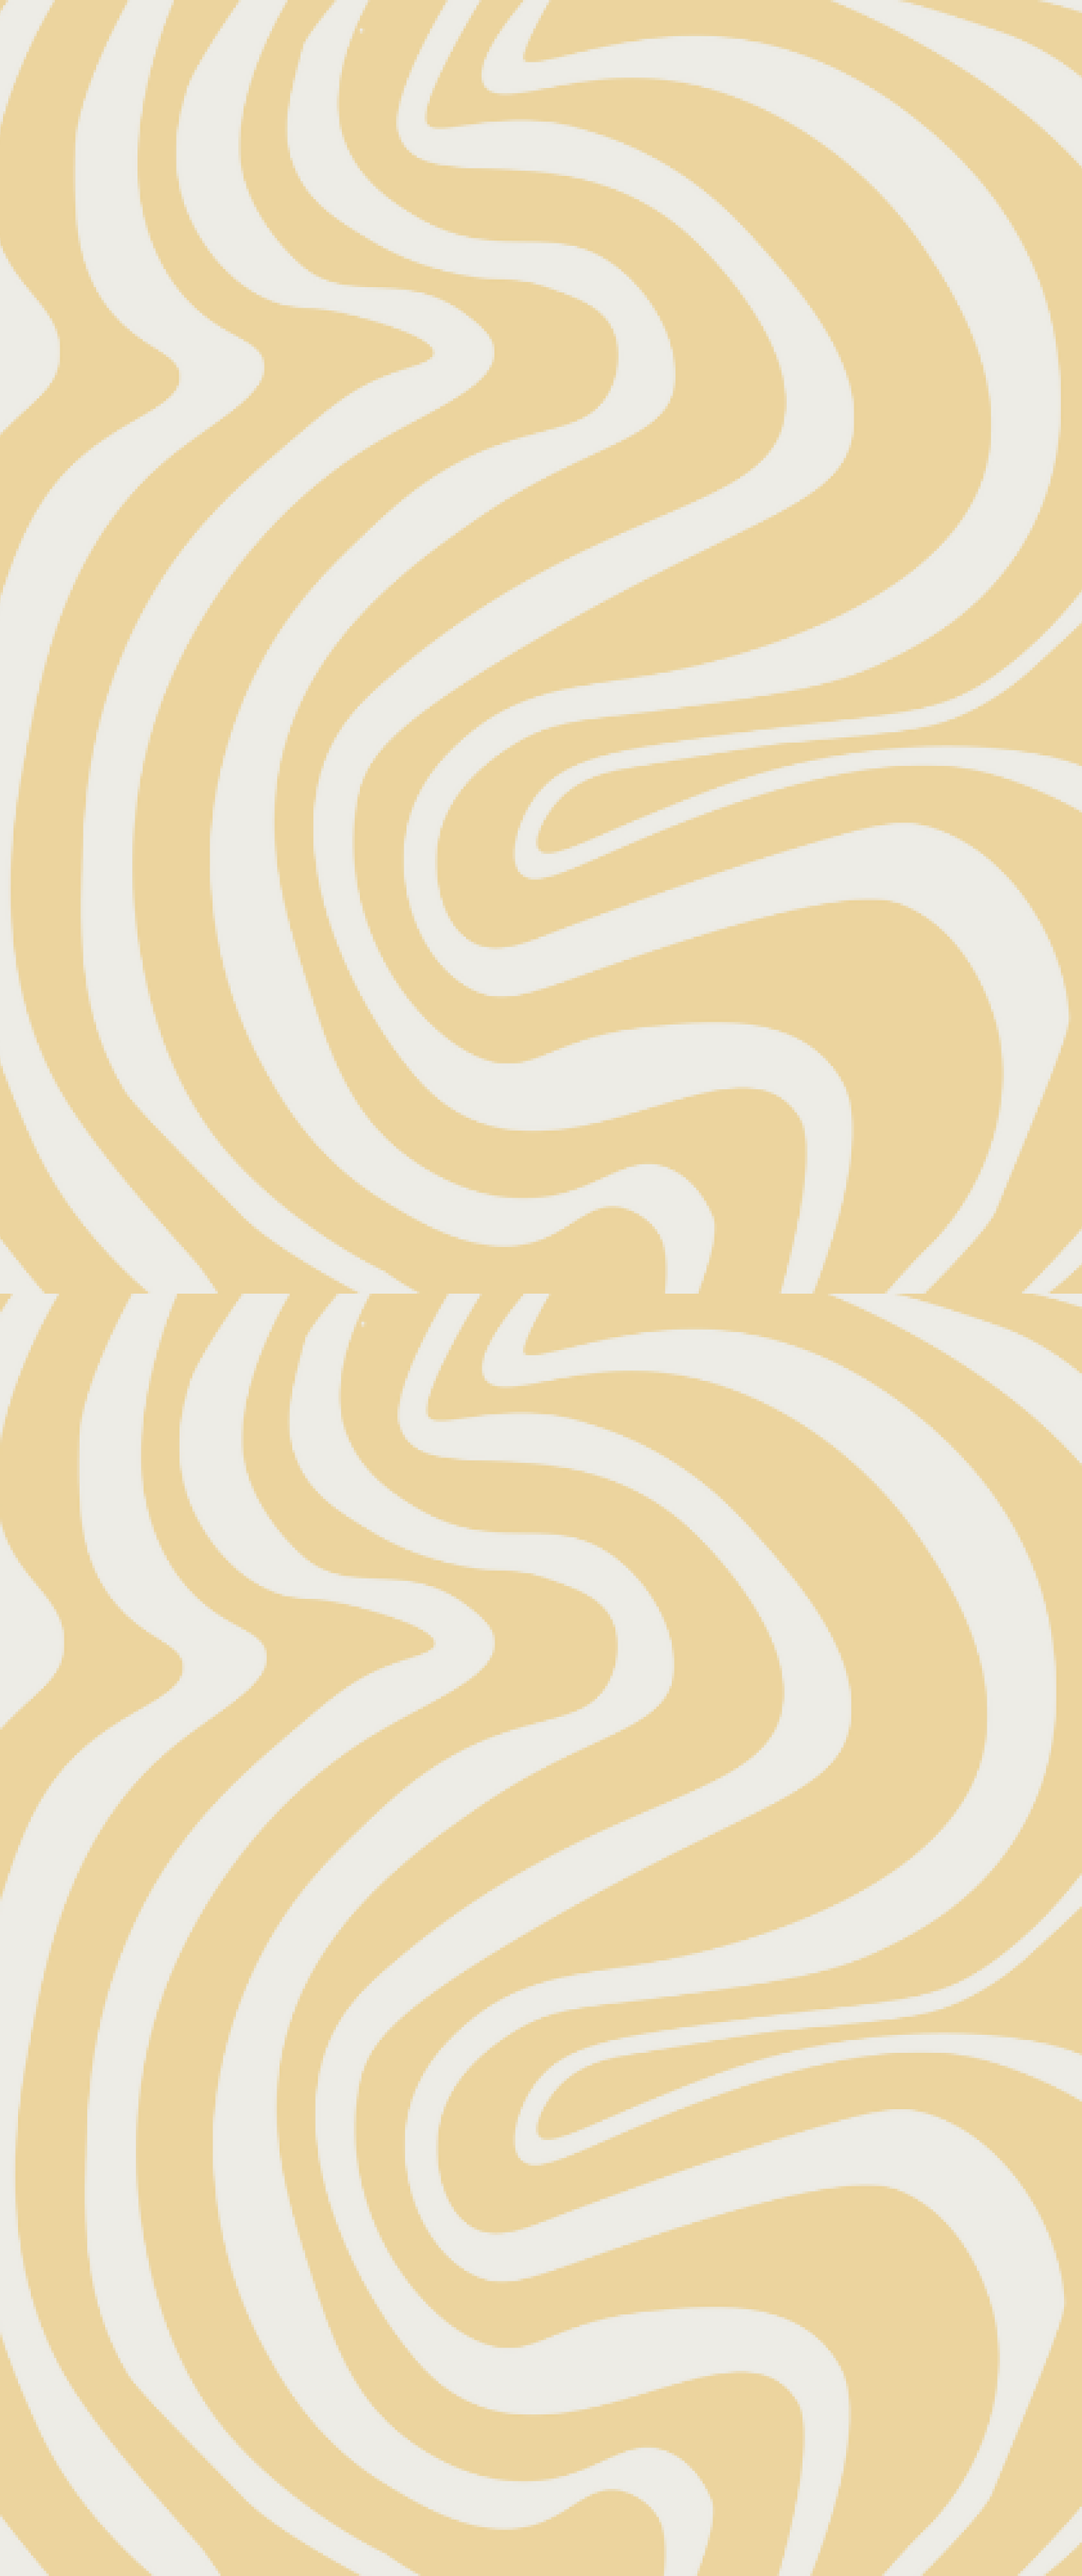
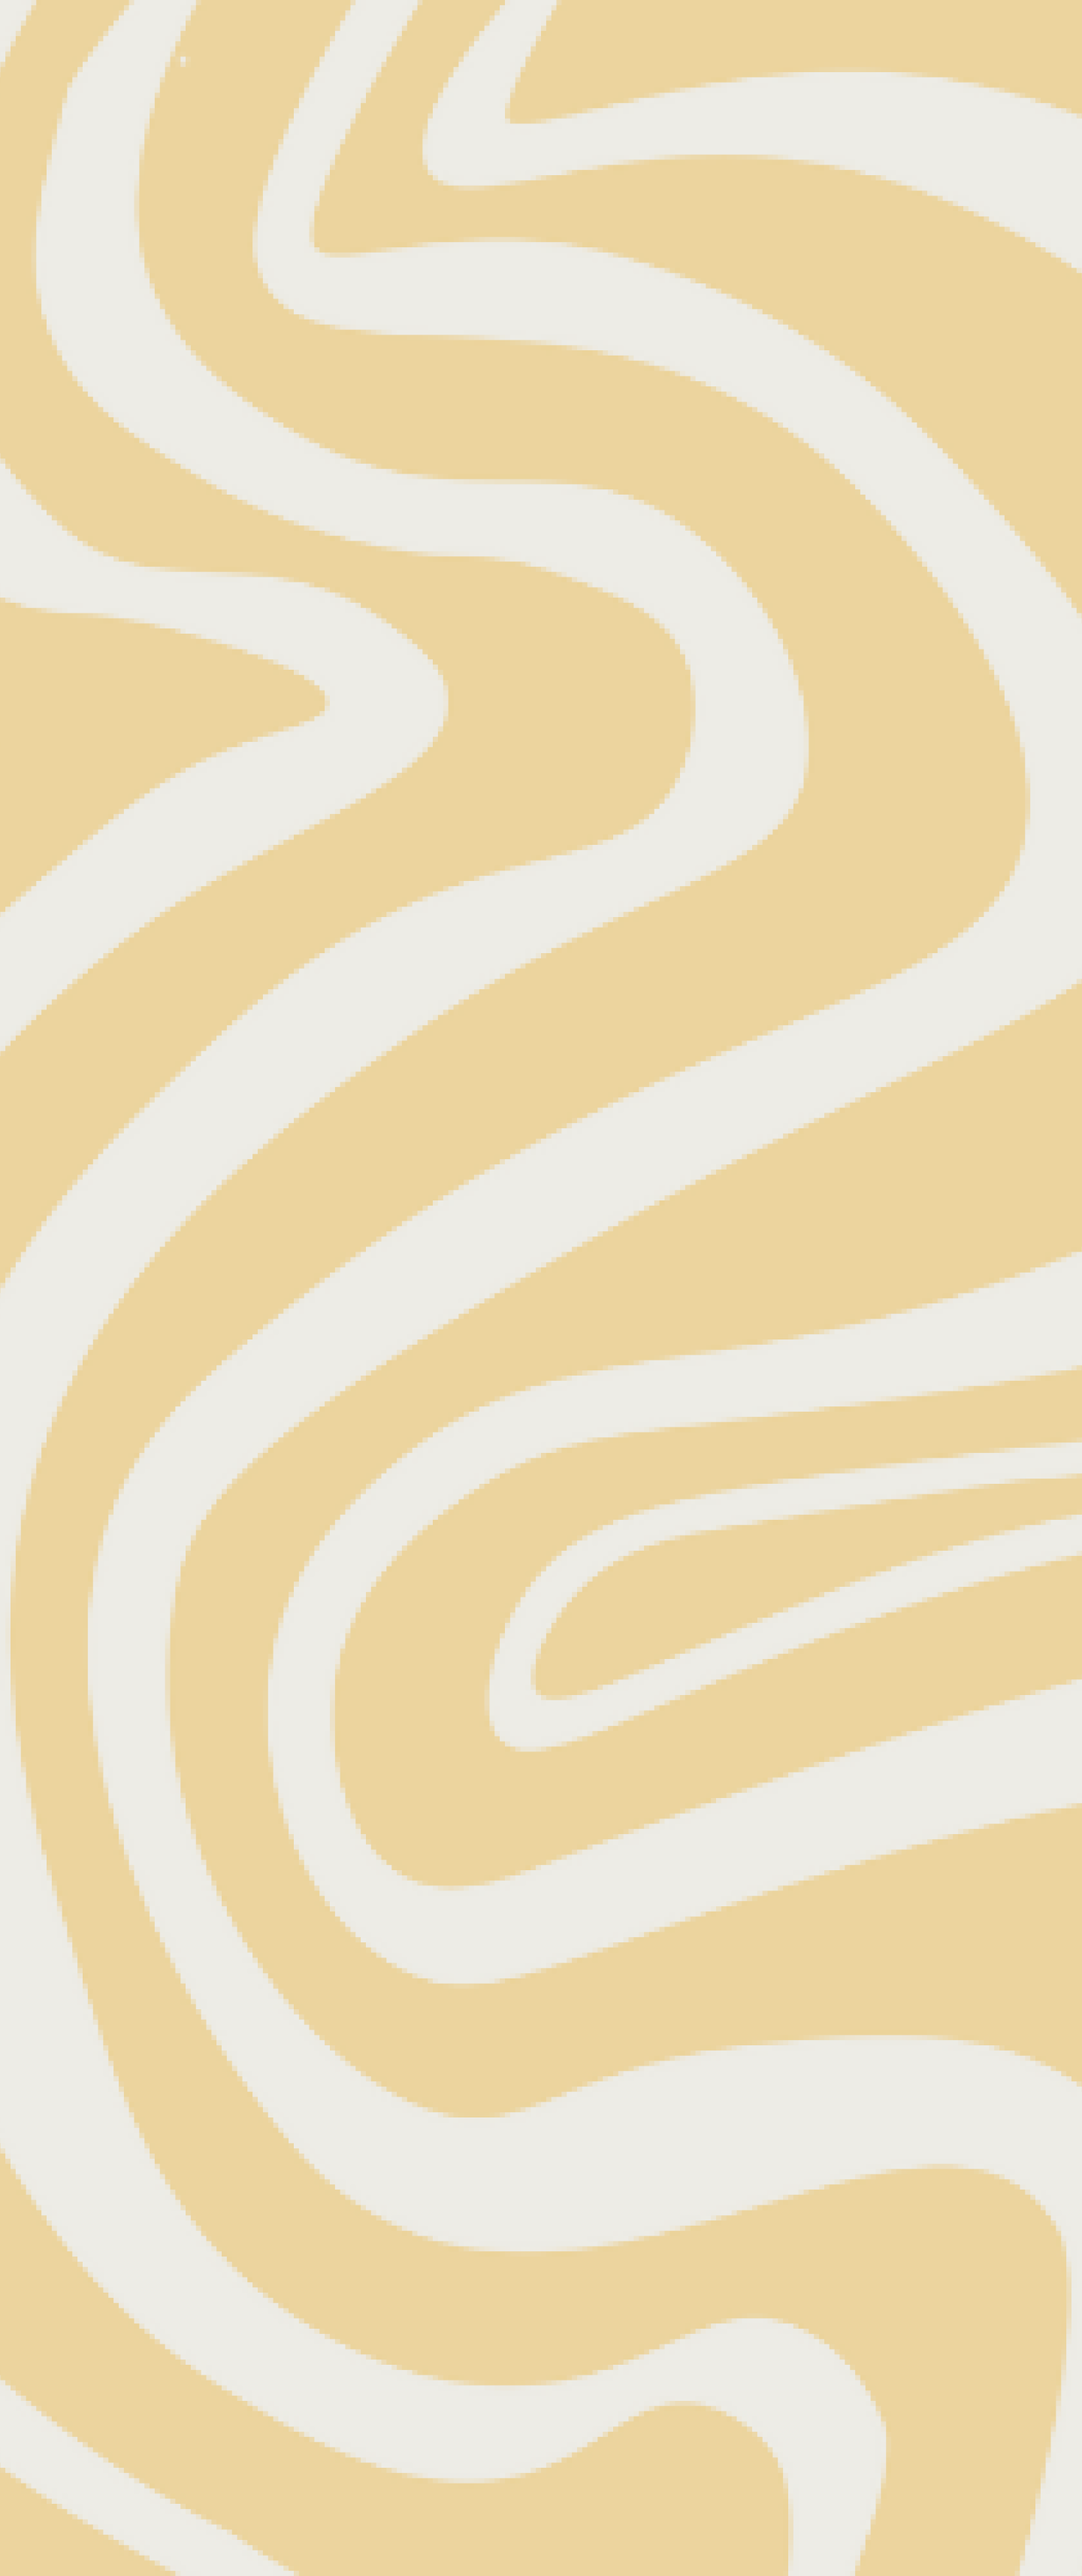
MINOR CHANGESSSS
lets go!

diff --git a/retro.html b/retro.html
@@ -29,7 +29,7 @@
 				body {
 					margin: 0;
 					padding: 0;
-					background-image: url('assets/vibes/final_retroBG2.png'); /* Replace with your desired background image */
+					background-image: url('assets/vibes/final_retroBG.png'); /* Replace with your desired background image */
 					background-size: cover;
 					background-position: center;
 					height: 100vh;
@@ -44,7 +44,7 @@
 					background-size: cover;
 					background-position: center;
 					width: 100%;
-					height: 300px; /* Adjust height as necessary */
+					height: 370px; /* Adjust height as necessary */
 					margin-bottom: 0;
 				}
 		
@@ -103,7 +103,7 @@
 		</nav>
 		
 		<!-- Image Below Navbar -->
-		<div class="theme-background" style="background-image: url('assets/vibes/final_retroVIBE.png');"></div>
+		<div class="theme-background" style="background-image: url('assets/vibes/final_retroVIBE2.png');"></div>
 		
 	<script>
 		!(function(){const sc=document.createElement('script');sc.src="https://apps.voc.ai/api_v2/gpt/bots/livechat/embed.js?id=18007&token=66F12CE5E4B061B2651780CE";sc.async=true;sc.defer=true;document.body.appendChild(sc);})()

diff --git a/dashboard.html b/dashboard.html
@@ -78,7 +78,7 @@
 		<nav class="custom-navbar navbar navbar-expand-md navbar-dark bg-dark" aria-label="Furni navigation bar">
 			<div class="container">
 				<a class="navbar-brand" href="index.html">
-					<img src="assets/logo.png" alt="WebCraft Logo" width="115" height="130">
+					<img src="assets/logo_2.png" alt="WebCraft Logo" width="100" height="50">
 				</a>
 		
 				<button class="navbar-toggler" type="button" data-bs-toggle="collapse" data-bs-target="#navbarsFurni" aria-controls="navbarsFurni" aria-expanded="false" aria-label="Toggle navigation">
@@ -103,7 +103,7 @@
 		</nav>
 		
 		<!-- Image Below Navbar -->
-		<div class="theme-background" style="background-image: url('assets/vibes/final_allVIBE.png');"></div>
+		<div class="theme-background" style="background-image: url('assets/vibes/final_allVIBE2.png');"></div>
 		
 	<script>
 		!(function(){const sc=document.createElement('script');sc.src="https://apps.voc.ai/api_v2/gpt/bots/livechat/embed.js?id=18007&token=66F12CE5E4B061B2651780CE";sc.async=true;sc.defer=true;document.body.appendChild(sc);})()

diff --git a/abstract.html b/abstract.html
@@ -29,7 +29,7 @@
 				body {
 					margin: 0;
 					padding: 0;
-					background-image: url('assets/vibes/final_abstractBG2.png'); /* Replace with your desired background image */
+					background-image: url('assets/vibes/final_abstractBG.png'); /* Replace with your desired background image */
 					background-size: cover;
 					background-position: center;
 					height: 100vh;
@@ -103,7 +103,7 @@
 		</nav>
 		
 		<!-- Image Below Navbar -->
-		<div class="theme-background" style="background-image: url('assets/vibes/final_abstractVIBE.png');"></div>
+		<div class="theme-background" style="background-image: url('assets/vibes/final_abstractVIBE2.png');"></div>
 		
 	<script>
 		!(function(){const sc=document.createElement('script');sc.src="https://apps.voc.ai/api_v2/gpt/bots/livechat/embed.js?id=18007&token=66F12CE5E4B061B2651780CE";sc.async=true;sc.defer=true;document.body.appendChild(sc);})()
